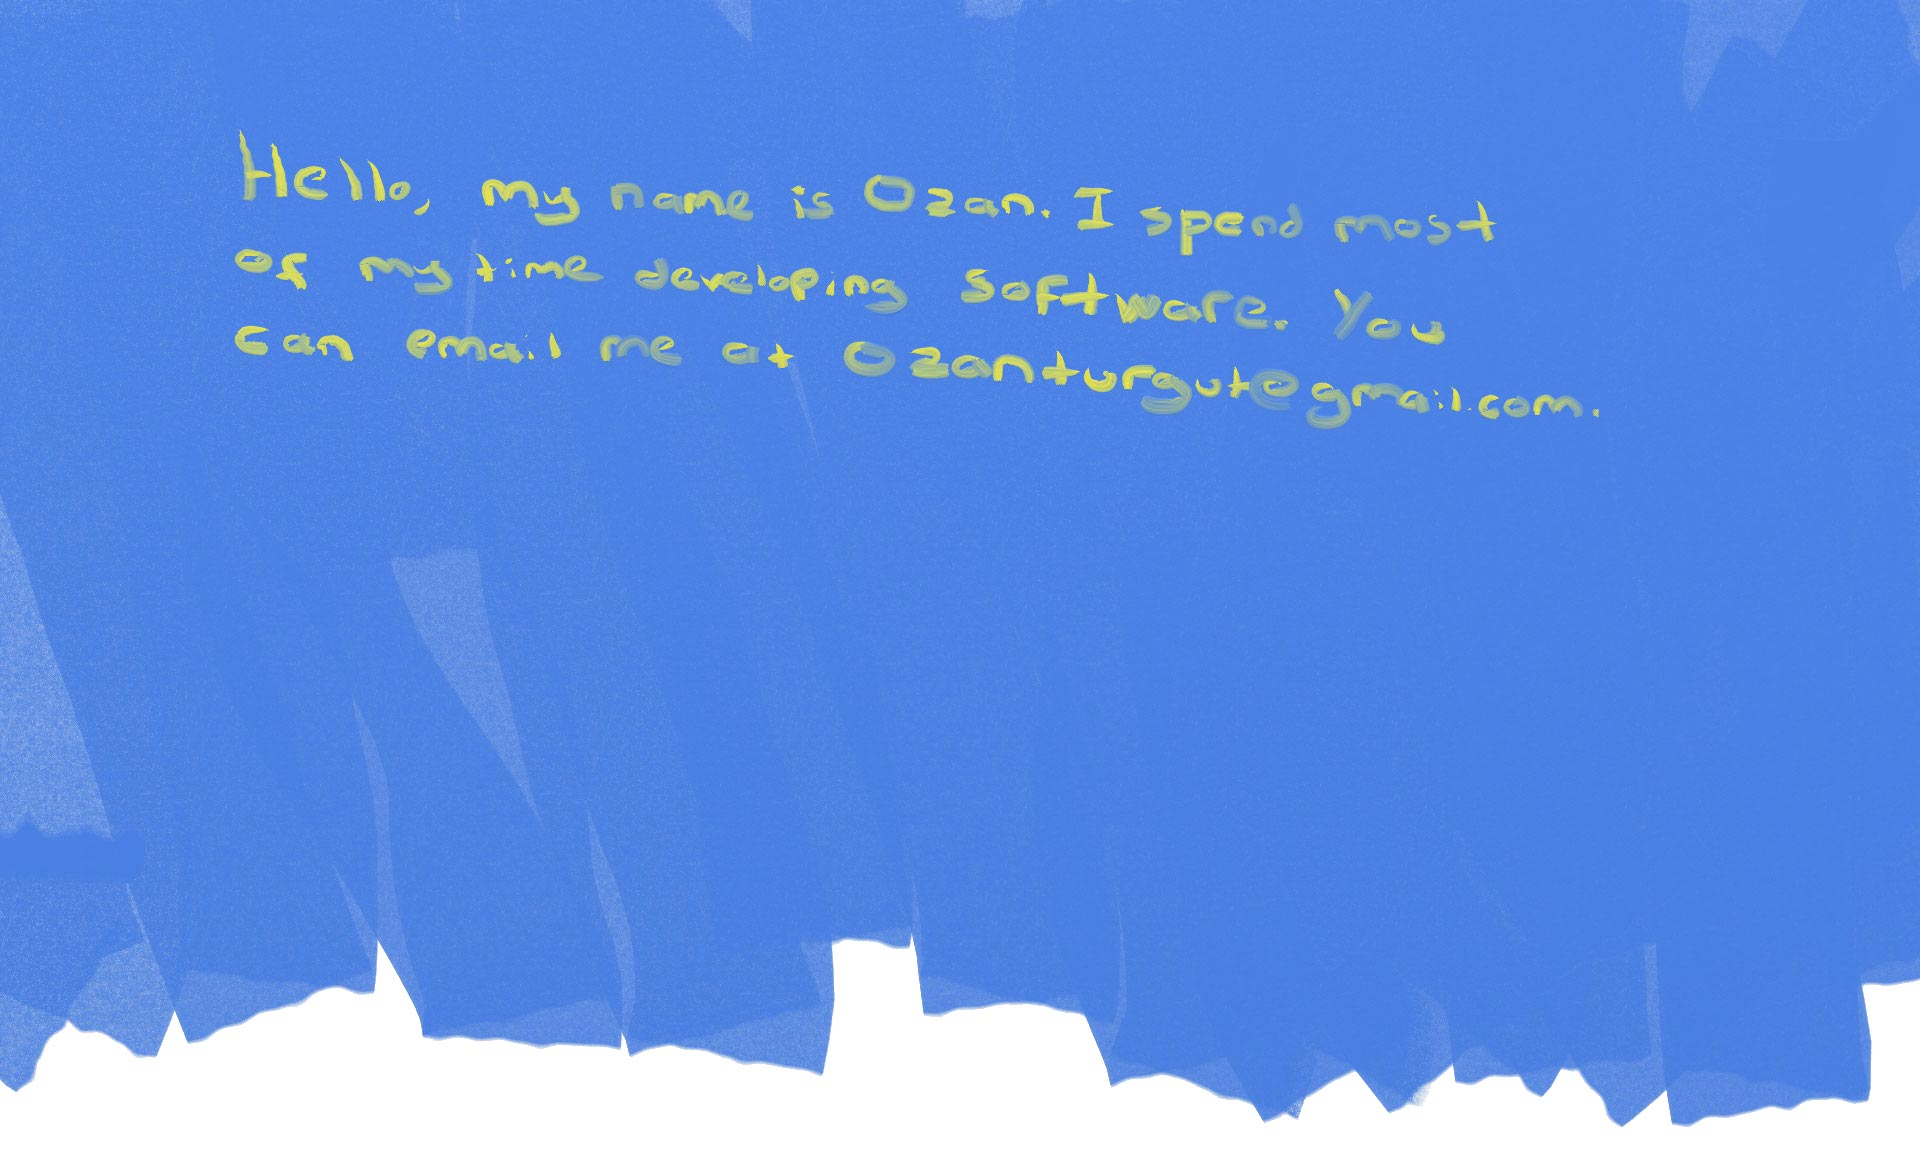
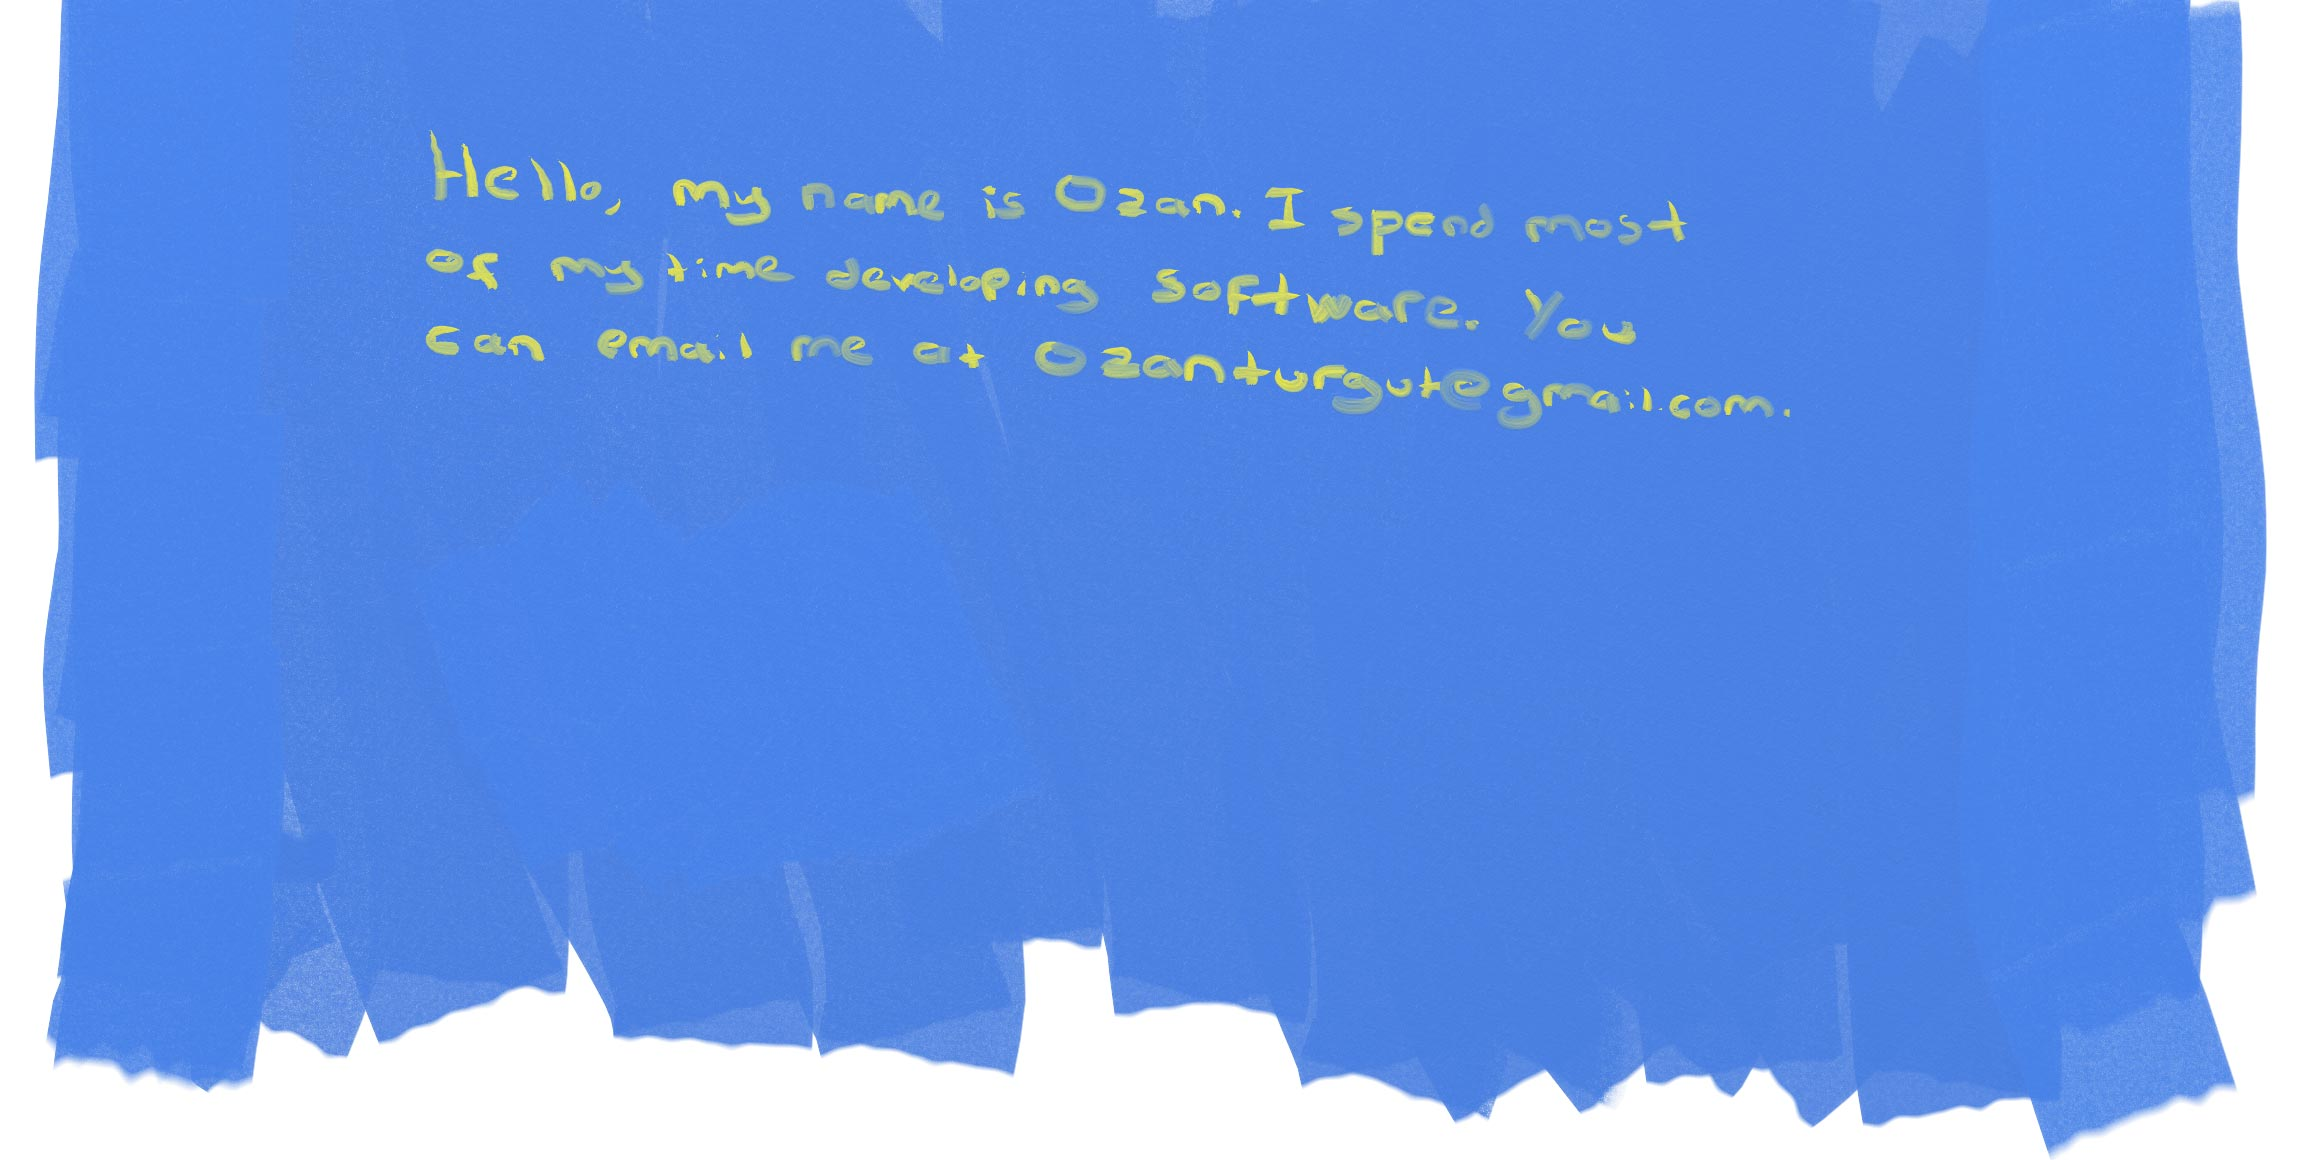
Update image

diff --git a/index.html b/index.html
@@ -1,12 +1,12 @@
 <!doctype html>
 <title>Ozan Turgut's Website</title>
-<meta name="viewport" content="width=700, user-scalable=no">
+<meta name="viewport" content="width=device-width, user-scalable=no">
 <style>
 	html,body{width:100%;height:100%; margin:0;}
 
 	.hello{ 
 		background-image:url(hello.jpg);
-		background-size:contain;
+		background-size:cover;
 		background-position: top center;
 		background-repeat: no-repeat;
 		z-index: 10;
